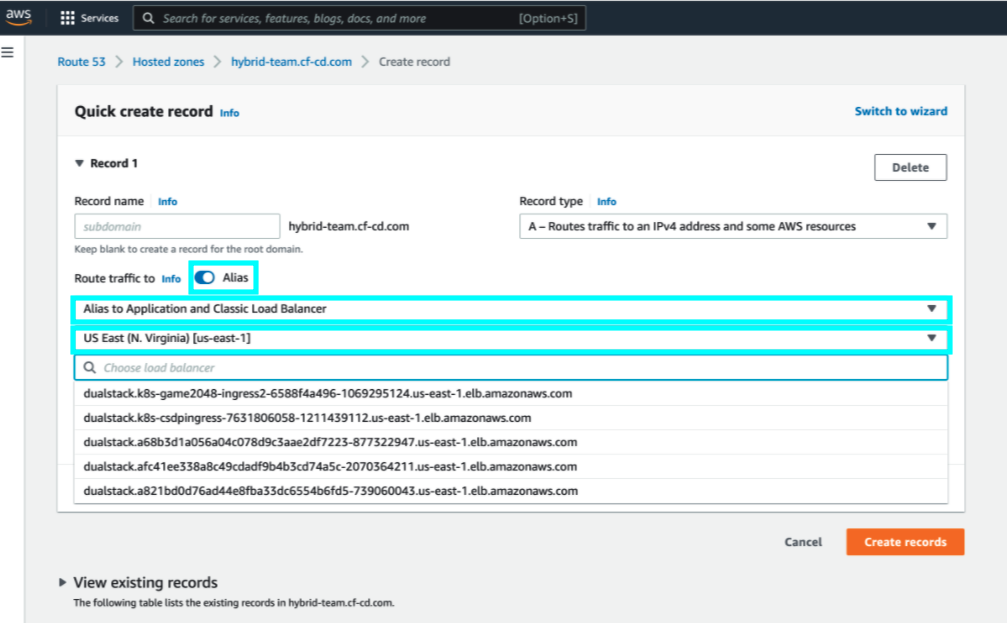
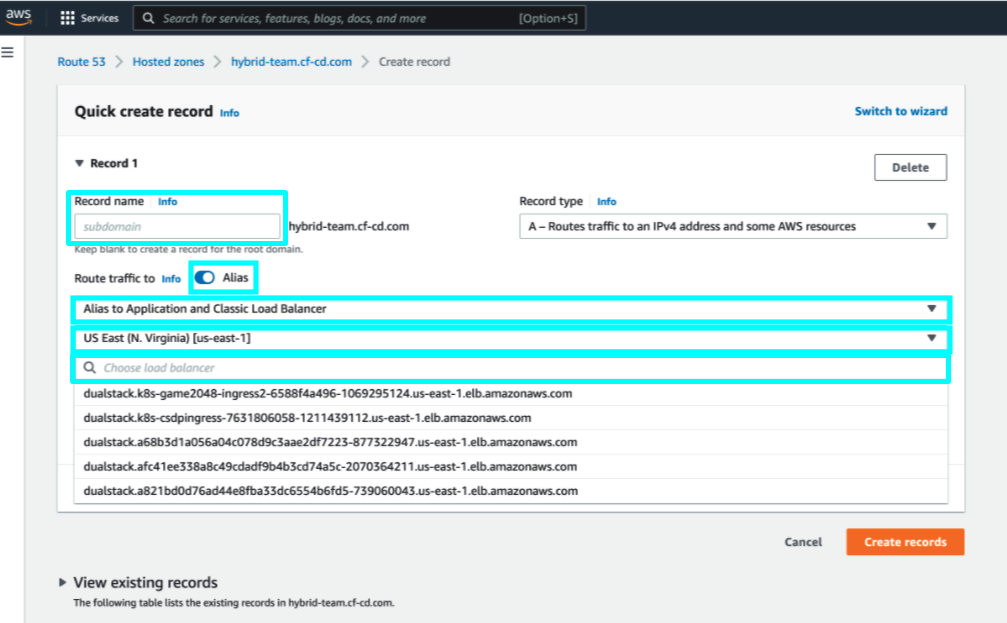
Update requirements and installation
Added xrefs

Changed region(s): [[0.0616, 0.549, 0.9543, 0.6404], [0.0616, 0.305, 0.3078, 0.3965]]

diff --git a/_docs/runtime/requirements.md b/_docs/runtime/requirements.md
@@ -18,16 +18,9 @@ The requirements listed are the **_minimum_** requirements to provision **_hybri
 | Item                     | Requirement            |  
 | --------------         | --------------           |  
 |Kubernetes cluster      | Server version 1.18 and higher, without Argo Project components. {::nomarkdown}<br><b>Tip</b>:  To check the server version, run:<br> <span style="font-family: var(--font-family-monospace); font-size: 87.5%; color: #ad6800; background-color: #fffbe6">kubectl version --short</span>.{:/}|
-| Ingress controller| Configured on Kubernetes cluster and exposed from the cluster. {::nomarkdown} <nr>Supported and tested ingress controllers include: <ul><li>Ambassador (see <a href="/" title="ambassador-ingress-configuration">Ambassador ingress configuration</a>)</li><li>ALB (Application Load Balancer) AWS (see <a href="https://codefresh.io/csdp-docs/docs/runtime/requirements/#aws-alb-ingress-configuration">AWS ALB ingress configuration</a>) </li><li>NGINX Enterprise (nginx.org/ingress-controller) (see <a href="https://codefresh.io/csdp-docs/docs/runtime/requirements/#nginx-enterprise-ingress-configuration">NGINX Enterprise ingress configuration</a>)<br></li><li>NGINX Community (k8s.io/ingress-nginx) (see <a href="https://codefresh.io/csdp-docs/docs/runtime/requirements/#nginx-community-ingress-configuration">NGINX Community ingress configuration</a>)</li><li>Istio (see <a href="https://codefresh.io/csdp-docs/docs/runtime/requirements/#istio-ingress-configuration">Istio ingress configuration</a>)</li><li>Trafik (see <a href="https://codefresh.io/csdp-docs/docs/runtime/requirements/#traefik-ingress-configuration">Traefik ingress configuration</a>)</li></ul>{:/}. |
+| Ingress controller| Configured on Kubernetes cluster and exposed from the cluster. {::nomarkdown} <br>Supported and tested ingress controllers include: <ul><li>Ambassador</li>{:/}(see [Ambassador ingress configuration](#ambassador-ingress-configuration)){::nomarkdown}<li>AWS ALB (Application Load Balancer)</li>{:/} (see [AWS ALB ingress configuration](#aws-alb-ingress-configuration)){::nomarkdown}<li>NGINX Enterprise (nginx.org/ingress-controller)</li>{:/} (see [NGINX Enterprise ingress configuration](#nginx-enterprise-ingress-configuration)){::nomarkdown}<li>NGINX Community (k8s.io/ingress-nginx)</li> {:/} (see [NGINX Community ingress configuration](#nginx-community-version-ingress-configuration)){::nomarkdown}<li>Istio</li>{:/} (see [Istio ingress configuration](#istio-ingress-configuration)){::nomarkdown}<li>Trafik</li>{:/}(see [Traefik ingress configuration](#traefik-ingress-configuration))|
 |Node requirements| {::nomarkdown}<ul><li>Memory: 5000 MB</li><li>CPU: 2</li></ul>{:/}|
-|Runtime namespace | Resource permissions: |
-|                  | `ServiceAccount`: Create, Delete         |                             
-|                  | `ConfigMap`: Create, Update, Delete |          
-|                  | `Service`: Create, Update, Delete |       
-|                  | `Role`: In group `rbac.authorization.k8s.io`: Create, Update, Delete |       
-|                  |`RoleBinding`: In group `rbac.authorization.k8s.io`: Create, Update, Delete  | 
-|                  | `persistentvolumeclaims`: Create, Update, Delete               |   
-|                  | `pods`: Create, Update, Delete               | 
+|Cluster permissions | Cluster admin permissions |
 |Git providers    |{::nomarkdown}<ul><li>GitHub</li><li>GitLab</li><li>Bitbucket Server</li><!--<li>Bitbucket Cloud</li>--><li>GitHub Enterprise</li></ul>{:/}|
 |Git access tokens    | {::nomarkdown}Runtime Git token:<ul><li>Valid expiration date</li><li>Scopes: <span style="font-family: var(--font-family-monospace); font-size: 87.5%; color: #ad6800; background-color: #fffbe6">repo</span> and <span style="font-family: var(--font-family-monospace); font-size: 87.5%; color: #ad6800; background-color: #fffbe6">admin-repo.hook</span></li></ul>Personal access Git token:<ul><li>Valid expiration date</li><li>Scopes: <span style="font-family: var(--font-family-monospace); font-size: 87.5%; color: #ad6800; background-color: #fffbe6">repo</span></li></ul></li></ul>{:/}|
 
@@ -52,7 +45,7 @@ For secure runtime installation, the ingress controller must have a valid SSL ce
 #### TCP support  
 Configure to handle TCP requests.  
 
-### ALB AWS ingress configuration
+### AWS ALB ingress configuration
 
 For detailed configuration information, see the [ALB AWS ingress controller documentation](https://kubernetes-sigs.github.io/aws-load-balancer-controller/v2.4){:target="\_blank"}.  
 
@@ -89,13 +82,18 @@ metadata:
 spec:
   controller: ingress.k8s.aws/alb
 ```
-#### Alias DNS record in route53 to load balancer
+#### Create an alias in route53 to load balancer
 
->  The alias DNS record must be configured _after_ installing the hybrid runtime.
+>  The alias  must be configured _after_ installing the hybrid runtime.
 
-
-Make sure you have a DNS record available in the correct hosted zone.  
-The hybrid runtime installation automatically creates a load balancer. You should now create an `Alias` record in Amazon Route 53, and map your zone apex (`example.com`) DNS name to your Amazon CloudFront distribution.
+1. Make sure a DNS record is available in the correct hosted zone. 
+1. _After_ hybrid runtime installation, in Amazon Route 53, create an alias to route traffic to the load balancer that is automatically created during the installation:  
+  * **Record name**: Enter the same record name used in the installation.
+  * Toggle **Alias** to ON.
+  * From the **Route traffic to** list, select **Alais to Application and Classic Load Balancer**.
+  * From the list of Regions, select the region. For example, **US East**.
+  * From the list of load balancers, select the load balancer that was created during installation.  
+  
 For more information, see [Creating records by using the Amazon Route 53 console](https://docs.aws.amazon.com/Route53/latest/DeveloperGuide/resource-record-sets-creating.html){:target="\_blank"}.
 
 {% include image.html

diff --git a/_docs/runtime/installation.md b/_docs/runtime/installation.md
@@ -123,6 +123,7 @@ If you are not sure which OS to select for `curl`, simply select one, and Codefr
 
 **Before you begin**
 * Make sure you meet the minimum requirements for runtime installation
+* [Download/upgrade the latest version of the CLI]({{site.baseurl}}/docs/clients/csdp-cli/#upgrade-codefresh-cli)
 * Review [Hybrid runtime installation flags](#hybrid-runtime-installation-flags)
 * Make sure your ingress controller is configured correctly:
   * [Ambasador ingress configuration]({{site.baseurl}}/docs/runtime/requirements/#ambassador-ingress-configuration)
